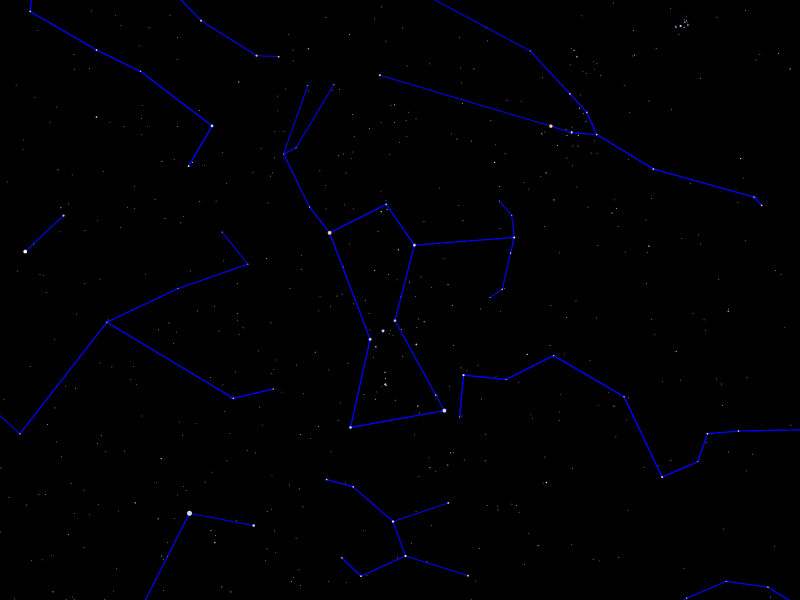
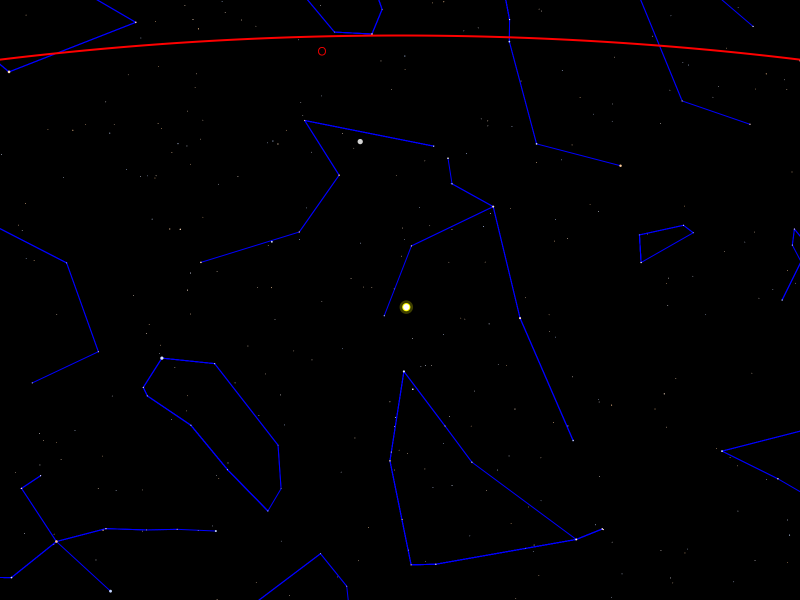
corrected little oopsie

diff --git a/src/ch/epfl/rigel/gui/DrawSky.java b/src/ch/epfl/rigel/gui/DrawSky.java
@@ -50,7 +50,7 @@ public final class DrawSky extends Application {
             final StarCatalogue catalogue = new StarCatalogue.Builder()
                     .loadFrom(hs, HygDatabaseLoader.INSTANCE).loadFrom(ast, AsterismLoader.INSTANCE).build();
 
-            final StereographicProjection proj = new StereographicProjection(HorizontalCoordinates.ofDeg(180, 45));
+            final StereographicProjection proj = new StereographicProjection(HorizontalCoordinates.ofDeg(277, -23));
 
             //££final Future<ObservedSky> skyFuture = ThreadManager.getAstronomy().submit(() -> new ObservedSky(
             //££        ZonedDateTime.parse("2020-02-17T20:15:00+01:00"), GeographicCoordinates.ofDeg(6.57, 46.52), proj, catalogue.get()));

diff --git a/src/ch/epfl/rigel/gui/SkyCanvasPainter.java b/src/ch/epfl/rigel/gui/SkyCanvasPainter.java
@@ -32,7 +32,6 @@ public final class SkyCanvasPainter {
     private final static ClosedInterval CLIP_INTERVAL = ClosedInterval.of(-2, 5);
     private final static Color YELLOW_HALO = Color.YELLOW.deriveColor(1, 1, 1, 0.25);
     private final static HorizontalCoordinates PARALLEL = HorizontalCoordinates.ofDeg(0, 0);
-    public static int i = 0;
 
     private final Canvas canvas;
     private final GraphicsContext graphicsContext;
